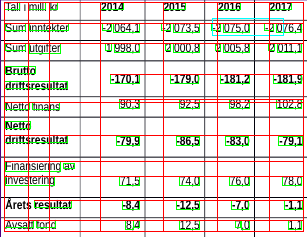
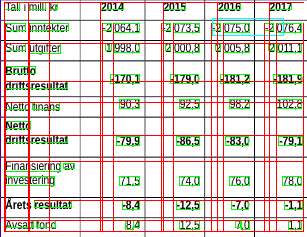
fix thresh2

diff --git a/findTablev2.py b/findTablev2.py
@@ -8,7 +8,7 @@ import imutils
 #  - min_text_height_limit
 #  - max_text_height_limit
 #  - cell_threshold
-#  - min_columns
+#  -arrin_columns
 
 
 def pre_process_image(img, save_in_file, morph_size=(3, 1)):
@@ -58,32 +58,50 @@ def find_text_boxes(pre, min_text_height_limit=3, max_text_height_limit=20):
         
         if min_text_height_limit < h < max_text_height_limit and 3 < w < 500 and 20 < area < 2000:
             i += 1
-            print(cv2.contourArea(contour),cv2.boundingRect(contour))
             htb = box[3] + htb
+            # print(cvarrcontourArea(contour),cv2.boundingRect(contour))
             boxes.append(box)
     # print(htb/i )
     return boxes
 
 
-def find_table_in_boxes(boxes, cell_threshold=10, min_columns=2):
-    rows = {}
+def find_table_in_boxes(boxes, cell_threshold=30, min_columns=0):
     cols = {}
+    rows = {} 
 
     # Clustering the bounding boxes by their positions
     for box in boxes:
         (x, y, w, h) = box
         col_key = x // cell_threshold
         row_key = y // cell_threshold
-        cols[row_key] = [box] if col_key not in cols else cols[col_key] + [box]
+        
+        cols[col_key] = [box] if col_key not in cols else cols[col_key] + [box]
         rows[row_key] = [box] if row_key not in rows else rows[row_key] + [box]
-
+    #print(rows.values())
     # Filtering out the clusters having less than 2 cols
     table_cells = list(filter(lambda r: len(r) >= min_columns, rows.values()))
     # Sorting the row cells by x coord
     table_cells = [list(sorted(tb)) for tb in table_cells]
     # Sorting rows by the y coord
     table_cells = list(sorted(table_cells, key=lambda r: r[0][1]))
-
+    #print(rows[0])
+    last = 0
+    arr = []
+    i = 0
+    while i < len(rows):
+        if(abs(rows[i][0][1] - rows[i+1][0][1]) < 30):
+            #rows[i+1].append(rows[i])
+            # print("nho hon 30")
+            # print(rows[i][0])
+            # print(rows[i+1][0])
+            # print("-----------------------------------")
+            arr.append((rows[i]+rows[i+1]))
+            i+=1
+        else:
+            arr.append((rows[i]))
+        i += 1
+    print(arr)
+    #parrnt(rows.values())
     return table_cells
 
 
@@ -137,7 +155,7 @@ if "_main_" == "_main_":
         (x, y, w, h) = box
         cv2.rectangle(vis, (x, y), (x + w - 2, y + h - 2), (0, 255, 0), 1)
     
-    print(cells)
+    # print(cells)
     cv2.rectangle(vis, (212, 18), (212 + 71, 18 + 17 ), (255, 255, 0), 1)
     for line in hor_lines:
         [x1, y1, x2, y2] = line

diff --git a/test.py b/test.py
@@ -10,13 +10,13 @@ def pre_process_image(img,morph_size):
     return thresh
 
 def find_Contours(thresh):
-    min_text_height_limit=1
-    max_text_height_limit=20
+    min_text_height_limit=3
+    max_text_height_limit=30
 
-    min_text_width_limit=1
+    min_text_width_limit=3
     max_text_width_limit=500
 
-    min_text_area_limit=50
+    min_text_area_limit=10
     max_text_area_limit=2000
 
     contours, hierarchy = cv2.findContours(thresh, cv2.RETR_LIST, cv2.CHAIN_APPROX_SIMPLE)
@@ -105,13 +105,13 @@ if "BTL-DIP" == "BTL-DIP":
     img = cv2.imread("data/public/" + imgname +".png")
     thresh = pre_process_image(img,(4,1))
     height_text = height_text(thresh)
-    thresh2 = pre_process_image(img,(round(height_text/2) + 1 ,1))
-    boxes = find_Contours(thresh)
+    thresh2 = pre_process_image(img,(round(height_text/2),1))
+    boxes = find_Contours(thresh2)
     arr = boxes
-    results = clearBoxes(arr,height_text)
-    print(results)
+    # results = clearBoxes(arr,height_text)
+    # print(results)
 
-    for box in results:
+    for box in boxes:
         (x, y, w, h) = box
         cv2.rectangle(img, (x, y), (x + w -1 , y + h -1), (0, 0, 255), 1)
 
